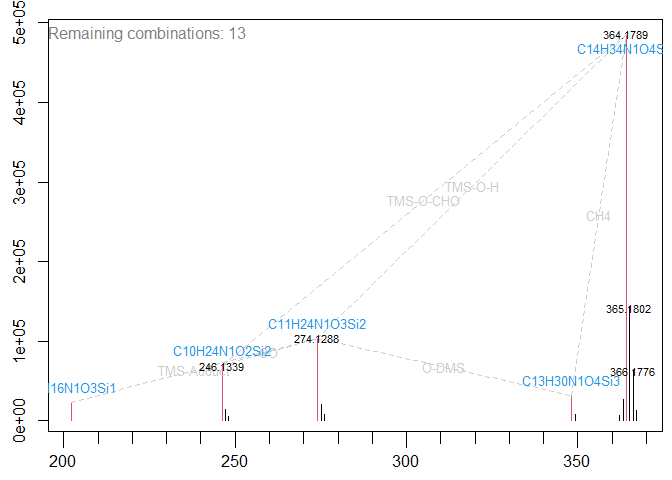
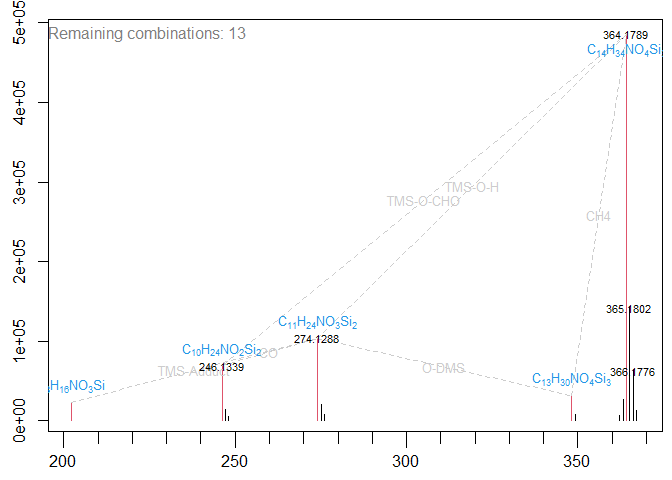
ReadMe now as Rmd file including several Figures.

diff --git a/README.md b/README.md
@@ -1,90 +1,186 @@
 
+<!-- README.md is generated from README.Rmd. Please edit that file -->
+
 # InterpretMSSpectrum
 
 <!-- badges: start -->
-[![CRAN status](https://www.r-pkg.org/badges/version/InterpretMSSpectrum)](https://CRAN.R-project.org/package=InterpretMSSpectrum)
+
+[![CRAN
+status](https://www.r-pkg.org/badges/version/InterpretMSSpectrum)](https://CRAN.R-project.org/package=InterpretMSSpectrum)
 [![R-CMD-check](https://github.com/janlisec/InterpretMSSpectrum/actions/workflows/R-CMD-check.yaml/badge.svg)](https://github.com/janlisec/InterpretMSSpectrum/actions/workflows/R-CMD-check.yaml)
 [![codecov](https://codecov.io/gh/janlisec/InterpretMSSpectrum/branch/main/graph/badge.svg?token=NSY6DITZVH)](https://codecov.io/gh/janlisec/InterpretMSSpectrum)
 <!-- badges: end -->
 
-The goal of **InterpretMSSpectrum** is to provides a set of R functions to annotate
-mass spectra from Electrospray-Ionization and Atmospheric-Pressure-Chemical-Ionization 
-derived data in positive and negative ionization mode.
+The goal of **InterpretMSSpectrum** is to provides a set of R functions
+to annotate mass spectra from Electrospray-Ionization and
+Atmospheric-Pressure-Chemical-Ionization derived data in positive and
+negative ionization mode.
 
 ## Installation
 
-You can install the 
-[CRAN](https://cran.r-project.org/package=InterpretMSSpectrum) or the 
-development version of InterpretMSSpectrum from 
-[GitHub](https://github.com/)
-with:
+You can install the
+[CRAN](https://cran.r-project.org/package=InterpretMSSpectrum) version
+of **InterpretMSSpectrum** using:
 
-``` r
-# install the CRAN version als usual
-install.packages("InterpretMSSpectrum")
+    install.packages("InterpretMSSpectrum")
 
-# devtools is required to install from GitHub
-# install.packages("devtools")
-devtools::install_github("janlisec/InterpretMSSpectrum")
-```
+or the development version from [GitHub](https://github.com/) using:
+
+    # devtools is required to install from GitHub
+    # install.packages("devtools")
+    devtools::install_github("janlisec/InterpretMSSpectrum")
 
 ## Example
 
-In the simplest case **InterpretMSSpectrum** will provide an informed guess
-for the potential sum formula of an arbitrary mass spectrum.
+In the simplest case **InterpretMSSpectrum** will provide an informed
+guess for the potential sum formula of an arbitrary mass spectrum.
 
 ``` r
-library(InterpretMSSpectrum)
-
 # load APCI test data
 apci_spectrum <- InterpretMSSpectrum::apci_spectrum
 
 # find the most probable sum formula for the spectrum
 # (will print to the console and open a new plot)
-InterpretMSSpectrum(spec=apci_spectrum)
+InterpretMSSpectrum::InterpretMSSpectrum(spec=apci_spectrum)
+#> 
+#> 
+#> Top 8 of 13 remaining Formula combinations (ordered after mean score of combination)...
+#>          73.75           56.52             26.27           21.26          
+#> 202.0893 "C8H16N1O3Si1"  "C8H16N1O3Si1"    "C8H16N1O3Si1"  "C8H16N1O3Si1" 
+#> 246.1339 "C10H24N1O2Si2" "C11H24N1O1S1Si1" "C8H22N4O1Si2"  NA             
+#> 274.1288 "C11H24N1O3Si2" "C12H24N1O2S1Si1" "C9H22N4O2Si2"  NA             
+#> 348.1477 "C13H30N1O4Si3" "C14H30N1O3S1Si2" NA              "C14H26N1O7Si1"
+#> 364.1789 "C14H34N1O4Si3" "C15H34N1O3S1Si2" "C12H32N4O3Si3" "C15H30N1O7Si1"
+#>          18.77             17.12             13.94           12.45          
+#> 202.0893 "C8H16N1O3Si1"    "C6H14N4O2Si1"    "C6H14N4O2Si1"  NA             
+#> 246.1339 NA                NA                "C10H24N1O2Si2" NA             
+#> 274.1288 NA                "C10H22N4O1S1Si1" "C9H22N4O2Si2"  NA             
+#> 348.1477 "C9H33N2O4P1Si3"  "C12H28N4O2S1Si2" NA              "C13H34N1S1Si4"
+#> 364.1789 "C10H37N2O4P1Si3" "C13H32N4O2S1Si2" "C10H30N7O2Si3" "C14H38N1S1Si4"
+#> 
+#> 
+#> Total number of formulas per fragment before and after filtering...
+#>         mz initial score_cutoff PlausibleFormula TypicalLosses
+#> 1 202.0893      30            4                2             2
+#> 2 246.1339      69           28                4             4
+#> 3 274.1288     114           43                4             4
+#> 4 348.1477     339          118               10            10
+#> 5 364.1789     402          166               13            13
+#> 
+#> 
+#> Details of best candidate...
+#>         Formula Score Valid        Mass
+#> 1  C8H16N1O3Si1    75 Valid 202.0899456
+#> 2 C10H24N1O2Si2    71 Valid 246.1345583
+#> 3 C11H24N1O3Si2    44 Valid 274.1294729
+#> 4 C13H30N1O4Si3    84 Valid 348.1482649
+#> 5 C14H34N1O4Si3    79 Valid 364.1795650
 ```
 
-The function can be tweaked with numerous parameters to limit the results, speed
-up calculations and more. 
+<img src="man/figures/README-exmpl1-1.png" width="100%" />
 
-The other high level function of the package allows to predict the precursor of 
-ESI spectra.
+    #> 
+    #> 
+    #> Time elapsed during individual processing steps...
+    #> Time differences in secs
+    #>  FormulaGen   ScoreFilt   Plausible NeutralLoss    PathEval        Plot 
+    #>     23.8203      0.0005      0.0950      0.1035      0.2840      0.0632
+
+The function can be tweaked with numerous parameters to limit the
+results, speed up calculations and more.
+
+The other high level function of the package allows to predict the
+precursor of ESI spectra.
 
 ``` r
 # load ESI test data
 esi_spectrum <- InterpretMSSpectrum::esi_spectrum
 
 # find the most likely precursor for the spectrum
-(fmr <- findMAIN(spec=esi_spectrum))
+(fmr <- InterpretMSSpectrum::findMAIN(spec=esi_spectrum))
+#> Analyzed 102 neutral mass hypotheses (34 peaks * 3 adducts), kept 96
+#> Selected m/z=263.0534 as [M+H]+ adduct of neutral mass 262.0461 with score 0.70.
+#>              mz            int isogr iso charge  adduct          ppm   label
+#> 155 157.0501860   2.6500690604    NA  NA     NA    <NA>           NA    <NA>
+#> 229 193.0709159  29.2907409724     1   0      1    <NA>           NA    <NA>
+#> 148 194.0747932   1.9549324775     1   1      1    <NA>           NA    <NA>
+#> 117 196.9617186   1.0061243275    NA  NA     NA    <NA>           NA    <NA>
+#> 149 261.0377150   6.4563029839    NA  NA     NA    <NA>           NA    <NA>
+#> 233 263.0534072 100.0000000000     2   0      1  [M+H]+           NA  [M+H]+
+#> 187 264.0559143   6.1269254132     2   1      1    <NA>           NA    <NA>
+#> 150 265.0579150   1.7051935769     2   2      1    <NA>           NA    <NA>
+#> 140 278.0636869   3.3219943949    NA  NA     NA    <NA>           NA    <NA>
+#> 118 280.0799743   0.4884984457    NA  NA     NA    <NA>           NA    <NA>
+#> 119 283.0193302   2.4524382037    NA  NA     NA    <NA>           NA    <NA>
+#> 141 285.0353210   2.0414678564    NA  NA     NA [M+Na]+ 0.1012343615 [M+Na]+
+#> 188 291.0490188  23.0130053610    NA  NA     NA    <NA>           NA    <NA>
+#> 121 308.0737825   1.4314882472    NA  NA     NA    <NA>           NA    <NA>
+#> 122 313.0305516   2.1848916230    NA  NA     NA    <NA>           NA    <NA>
+#> 123 359.0143852   1.0859216047    NA  NA     NA    <NA>           NA    <NA>
+#> 124 361.0297654   1.5472807922    NA  NA     NA    <NA>           NA    <NA>
+#> 125 389.0252820   1.6451046956    NA  NA     NA    <NA>           NA    <NA>
+#> 126 425.1053222   1.6750924050    NA  NA     NA    <NA>           NA    <NA>
+#> 127 453.1022657   3.4913206641    NA  NA     NA    <NA>           NA    <NA>
+#> 128 455.1181155   2.0655940307    NA  NA     NA    <NA>           NA    <NA>
+#> 129 483.1128831   2.0073900544    NA  NA     NA    <NA>           NA    <NA>
+#> 130 521.0697981   3.2406912531    NA  NA     NA    <NA>           NA    <NA>
+#> 154 523.0839382   9.7175989799    NA  NA     NA    <NA>           NA    <NA>
+#> 143 525.0990231  15.4786310623     3   0      1 [2M+H]+ 0.9805676686 [2M+H]+
+#> 131 526.1044291   1.7618155343     3   1      1    <NA>           NA    <NA>
+#> 144 551.0770120  10.4804797418    NA  NA     NA    <NA>           NA    <NA>
+#> 145 553.0947540  19.0018255376     4   0      1    <NA>           NA    <NA>
+#> 146 554.0955402   3.1044267658     4   1      1    <NA>           NA    <NA>
+#> 107 555.0985695   0.8381538242     4   2      1    <NA>           NA    <NA>
+#> 108 561.0319968   0.8964040075    NA  NA     NA    <NA>           NA    <NA>
+#> 132 577.0014780   1.0216322103    NA  NA     NA    <NA>           NA    <NA>
+#> 147 581.0914486  10.4298634923     5   0      1    <NA>           NA    <NA>
+#> 133 582.0933293   1.5373409114     5   1      1    <NA>           NA    <NA>
+#> 113 617.1212331   0.5184300973    NA  NA     NA    <NA>           NA    <NA>
+#> 114 715.1447388   0.6167062300    NA  NA     NA    <NA>           NA    <NA>
+#> 135 783.1144323   2.8793012631    NA  NA     NA    <NA>           NA    <NA>
+#> 136 785.1256330   2.2229013611    NA  NA     NA    <NA>           NA    <NA>
+#> 137 811.1078594   2.8237031553    NA  NA     NA    <NA>           NA    <NA>
+#> 138 813.1263247   4.3365978759    NA  NA     NA    <NA>           NA    <NA>
+#> 115 815.1390540   1.6229672296    NA  NA     NA    <NA>           NA    <NA>
+#> 139 841.1211602   2.3651945193    NA  NA     NA    <NA>           NA    <NA>
 plot(fmr)
 ```
 
-Also in `findMAIN` multiple user options exist to provide individual adduct 
+<img src="man/figures/README-exmpl2-1.png" width="100%" />
+
+Also `findMAIN` provides multiple user options to use individual adduct
 lists, thresholds and rule sets.
 
-Finally, `InterpretMSSpectrum` provides a number of helper functions.
+Finally, `InterpretMSSpectrum` provides a number of helper functions,
+some of which are listed below.
 
 ``` r
-# CountChemicalElements
-CountChemicalElements(x = "C6H12O6")
-sapply(c("C6H12O6", "CH3"), CountChemicalElements, ele=c("C","H","O"))
+# to count the chemical elements within a character vector of sum formulas
+InterpretMSSpectrum::CountChemicalElements(x = "C6H12O6")
+#>  C  H  O 
+#>  6 12  6
+sapply(c("C6H12O6", "CH3Cl"), InterpretMSSpectrum::CountChemicalElements, ele=c("C","H","O"))
+#>   C6H12O6 CH3Cl
+#> C       6     1
+#> H      12     3
+#> O       6     0
 
-# get_exactmass
-get_exactmass(c("C6H12O6", "Na", "H1"))
+# to get the exact mass for a sum formula
+InterpretMSSpectrum::get_exactmass(c("C6H12O6", "Na", "H1"))
+#>       C6H12O6            Na            H1 
+#> 180.063388200  22.989767700   1.007825035
 
-# is.subformula
-# findiso
-# GetIsotopeDistribution
-# GetGroupFactor
-# PlausibleFormula
-
+# to check if one formula is contained in another (i.e. as fragment)
+InterpretMSSpectrum:::is.subformula("H2O", "HCOOH")
+#> O1C1 
+#> TRUE
 ```
 
 ## Detailed documentation
 
-You might read the publications on either
-[APCI spectra processing](https://doi.org/10.1021/acs.analchem.6b02743) which
-explains the idea of using the in source fragments for prediction of potential 
-sum formulas or on
-[ESI spectra processing](https://doi.org/10.1002/rcm.7905) which 
-explains the strategy to infer the correct precursor of ESI mass spectra.
+You might read the publications on either [APCI spectra
+processing](https://doi.org/10.1021/acs.analchem.6b02743) which explains
+the idea of using the in source fragments for prediction of potential
+sum formulas or on [ESI spectra
+processing](https://doi.org/10.1002/rcm.7905) which explains the
+strategy to infer the correct precursor of ESI mass spectra.
